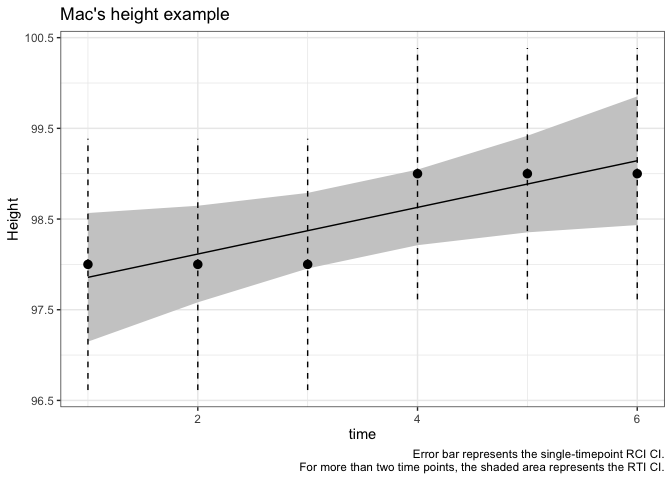
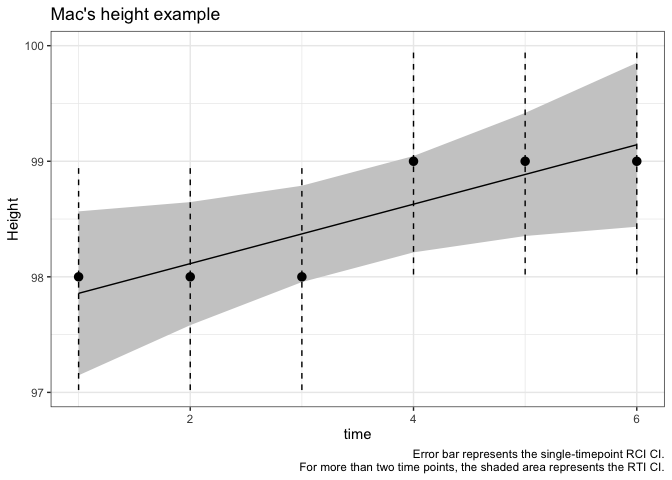
bug fixes and improvements to forest_to_reg_plot()

diff --git a/README.md b/README.md
@@ -68,8 +68,8 @@ library(ReliableTrendIndex)
 #> Warning: package 'magrittr' was built under R version 4.0.5
 #> 
 #> You loaded ReliableTrendIndex
-#> You don't actually believe that the SD of a group has anything to do with any individual case, right?
-#> That seems implausible for most constructs.
+#> Loading the ReliableTrendIndex package is not recommended, because you're probably not 
+#> going to find a situation in which the reliability of change scores matters.
 ```
 
 ### One person RCI
@@ -161,7 +161,7 @@ mac_rti <- rti(mac_height$obs, sdiff = .707)
 
 Note that it gave us this message on screen:
 `"More than two values provided, assuming they are evenly spaced in time."`.
-The function `rti`()\` is meant to be *simple*, so it is not meant to be
+The function `rti()` is meant to be *simple*, so it is not meant to be
 used with uneven assessment spacing. Other methods allow more
 flexibility at the cost of increase complexity.
 
@@ -256,8 +256,7 @@ You might want to visualize this to see what it’s doing. Try
 `forest_to_reg_plot()`.
 
 ``` r
-forest_to_reg_plot(mac_rti$rmaObj, 
-                   StError = sqrt(mac_rti$error_var)) +
+forest_to_reg_plot(mac_rti) +
   ggplot2::labs(title = "Mac's height example",
          y = "Height")
 ```
@@ -266,7 +265,7 @@ forest_to_reg_plot(mac_rti$rmaObj,
 
 Notice that the trend line is going up, and the 95% CI for the RTI
 (shaded region) is more precise than the 95% CI for individual
-observations (error bars), which is what the RCI on its own does.
+observations (error bars), which is what the RCI on its own relies on.
 
 ## Analysis of complete data sets
 
